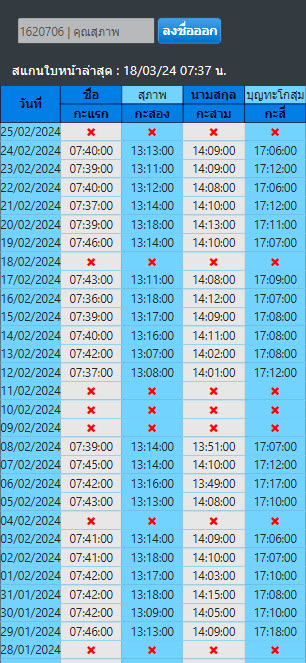
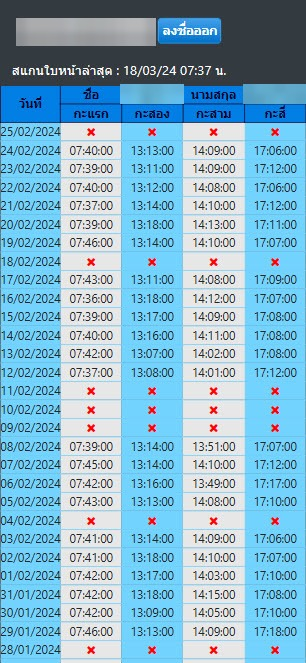
เบลอชื่อพนักงานในรูป Time Attendance และแก้กรอบรูปถูกตัดขอบ
- เบลอรหัสพนักงาน ชื่อ และนามสกุลในรูป timeattendance.jpg
  เพราะเว็บและ repo เป็น public
- เปลี่ยนกรอบรูปจากความสูงตายตัวเป็นสัดส่วน 16:10 ตรงกับภาพหน้าจอ
  ที่แคปมา เดิมพอจอแคบลงรูปถูกตัดขอบซ้ายขวาจนเมนูด้านข้างหาย

Changed region(s): [[0.0, 0.0302, 1.0, 1.0], [0.5882, 0.181, 0.6176, 0.2112]]

diff --git a/src/components/Works.jsx b/src/components/Works.jsx
@@ -89,7 +89,7 @@ const ProjectRow = ({
             <img
               src={getProjectImage(gallery[active])}
               alt={name}
-              className="w-full h-[240px] sm:h-[320px] object-cover object-top"
+              className="w-full aspect-[16/10] object-cover object-top"
             />
           </div>
         )}
